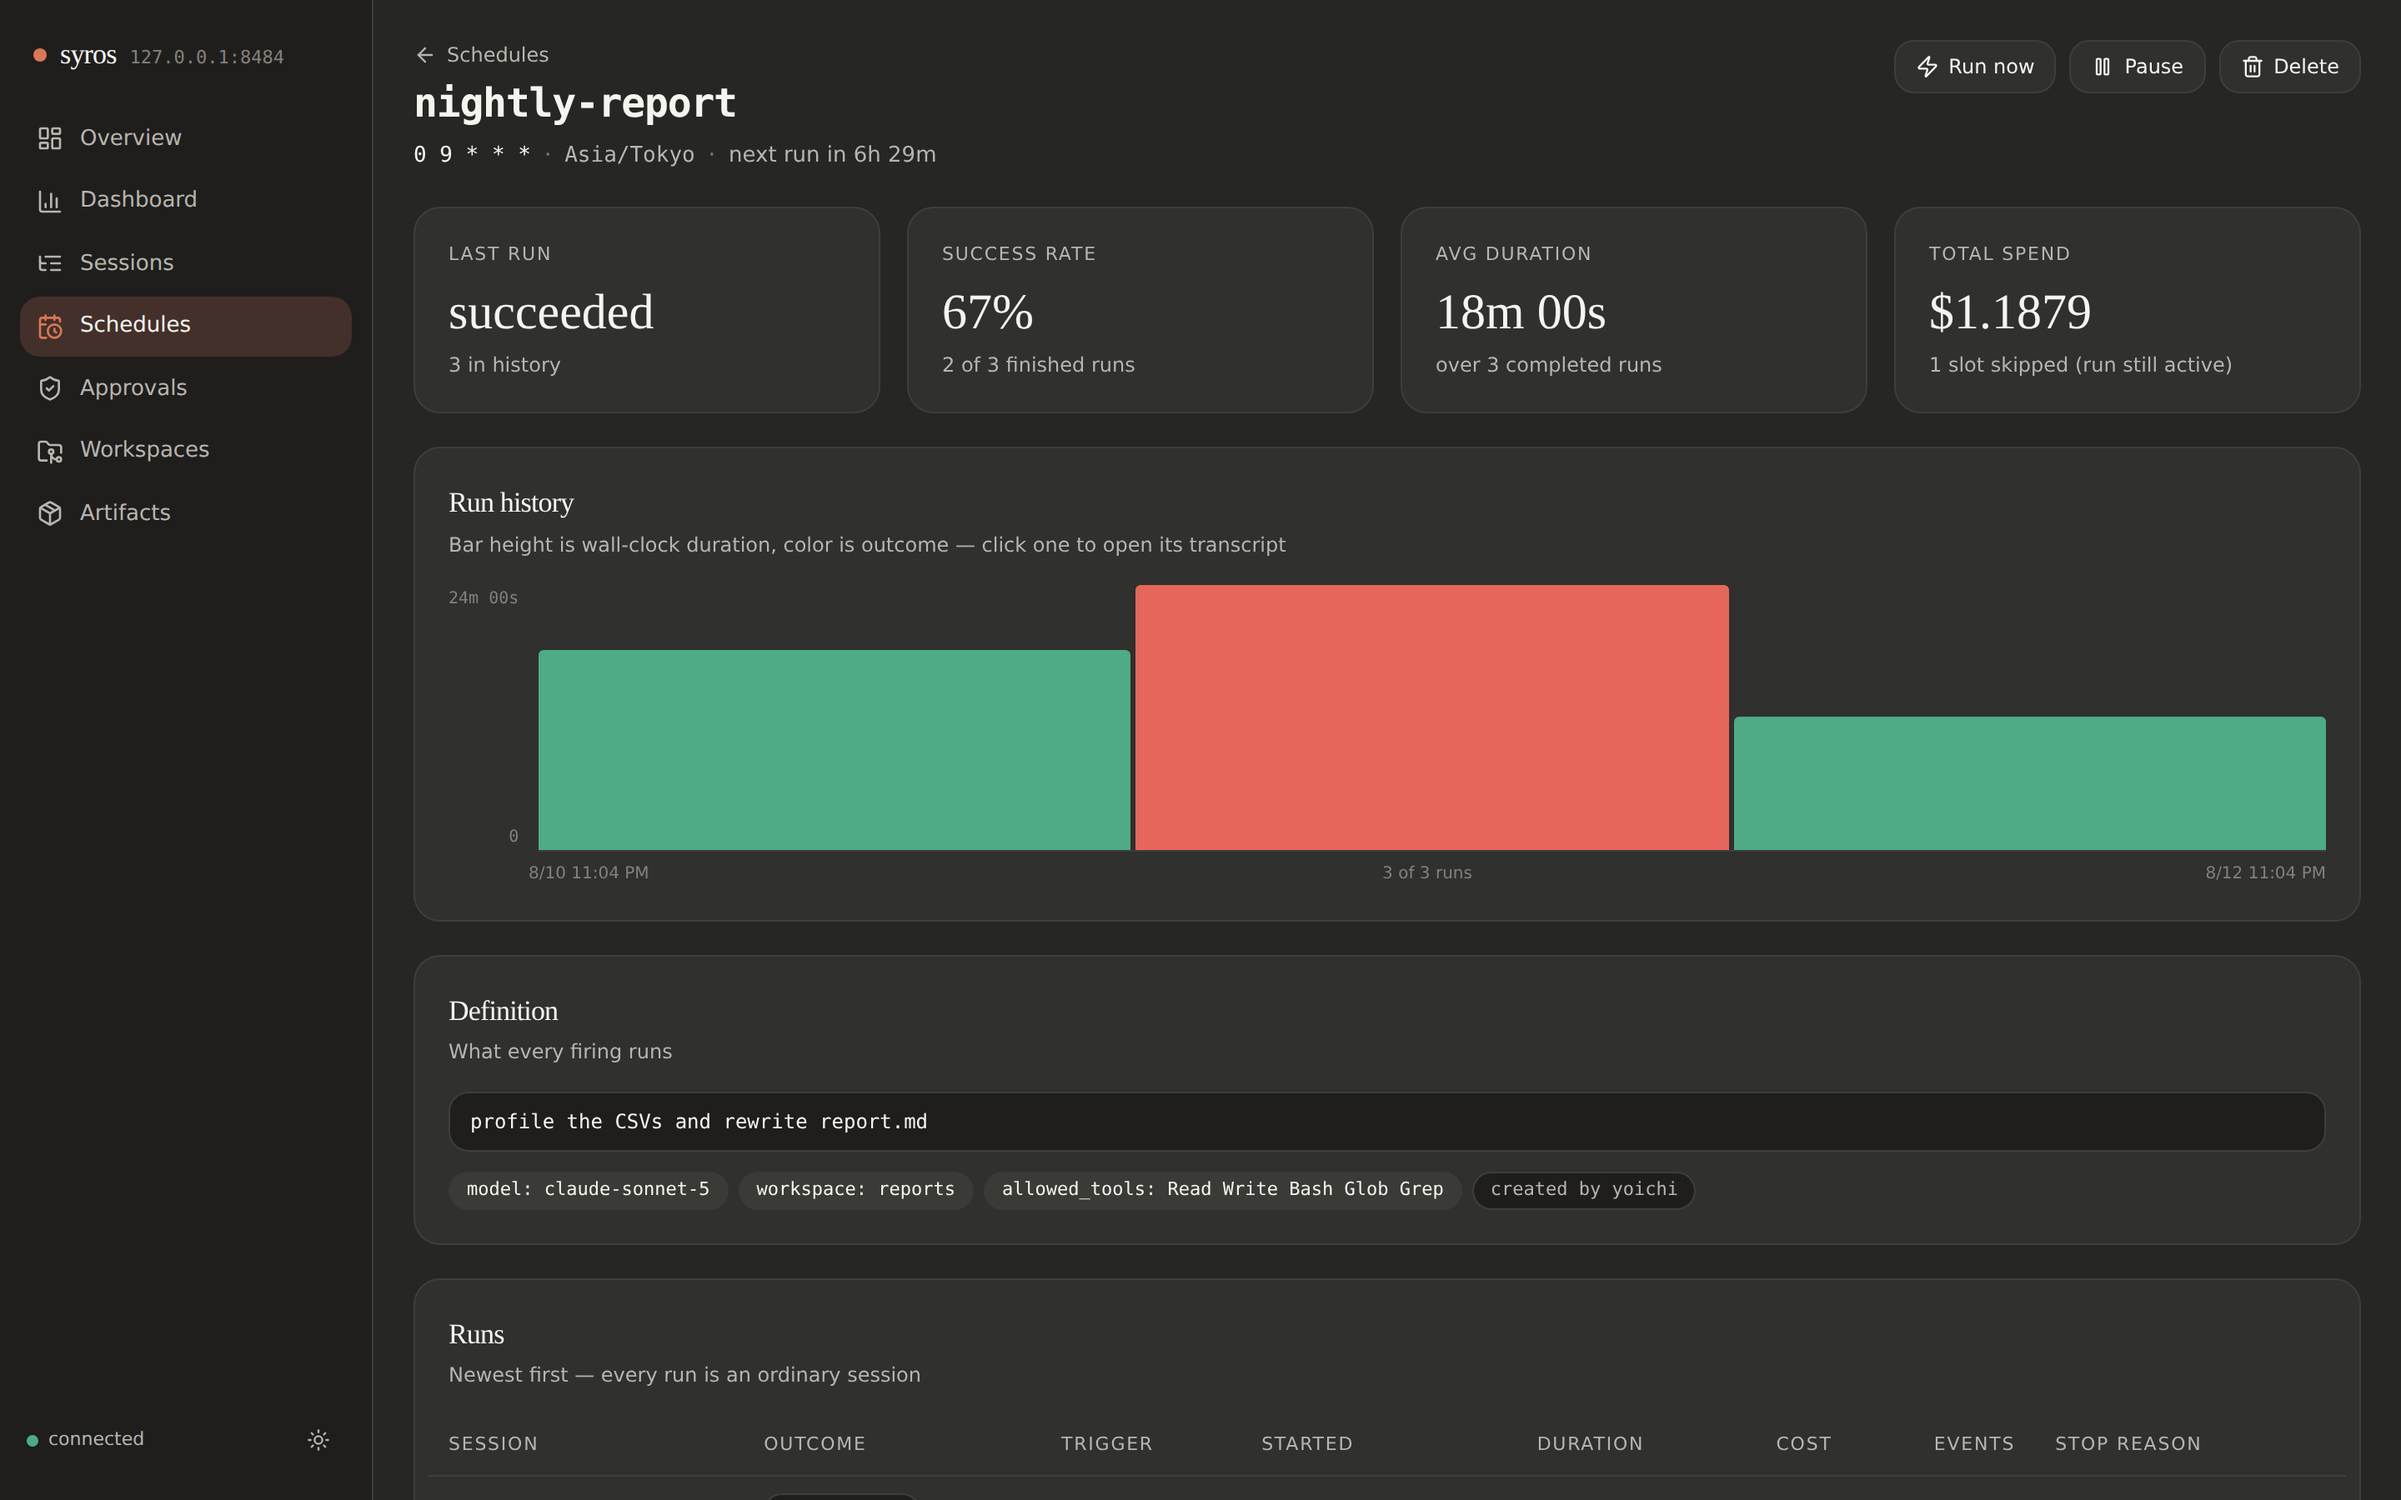
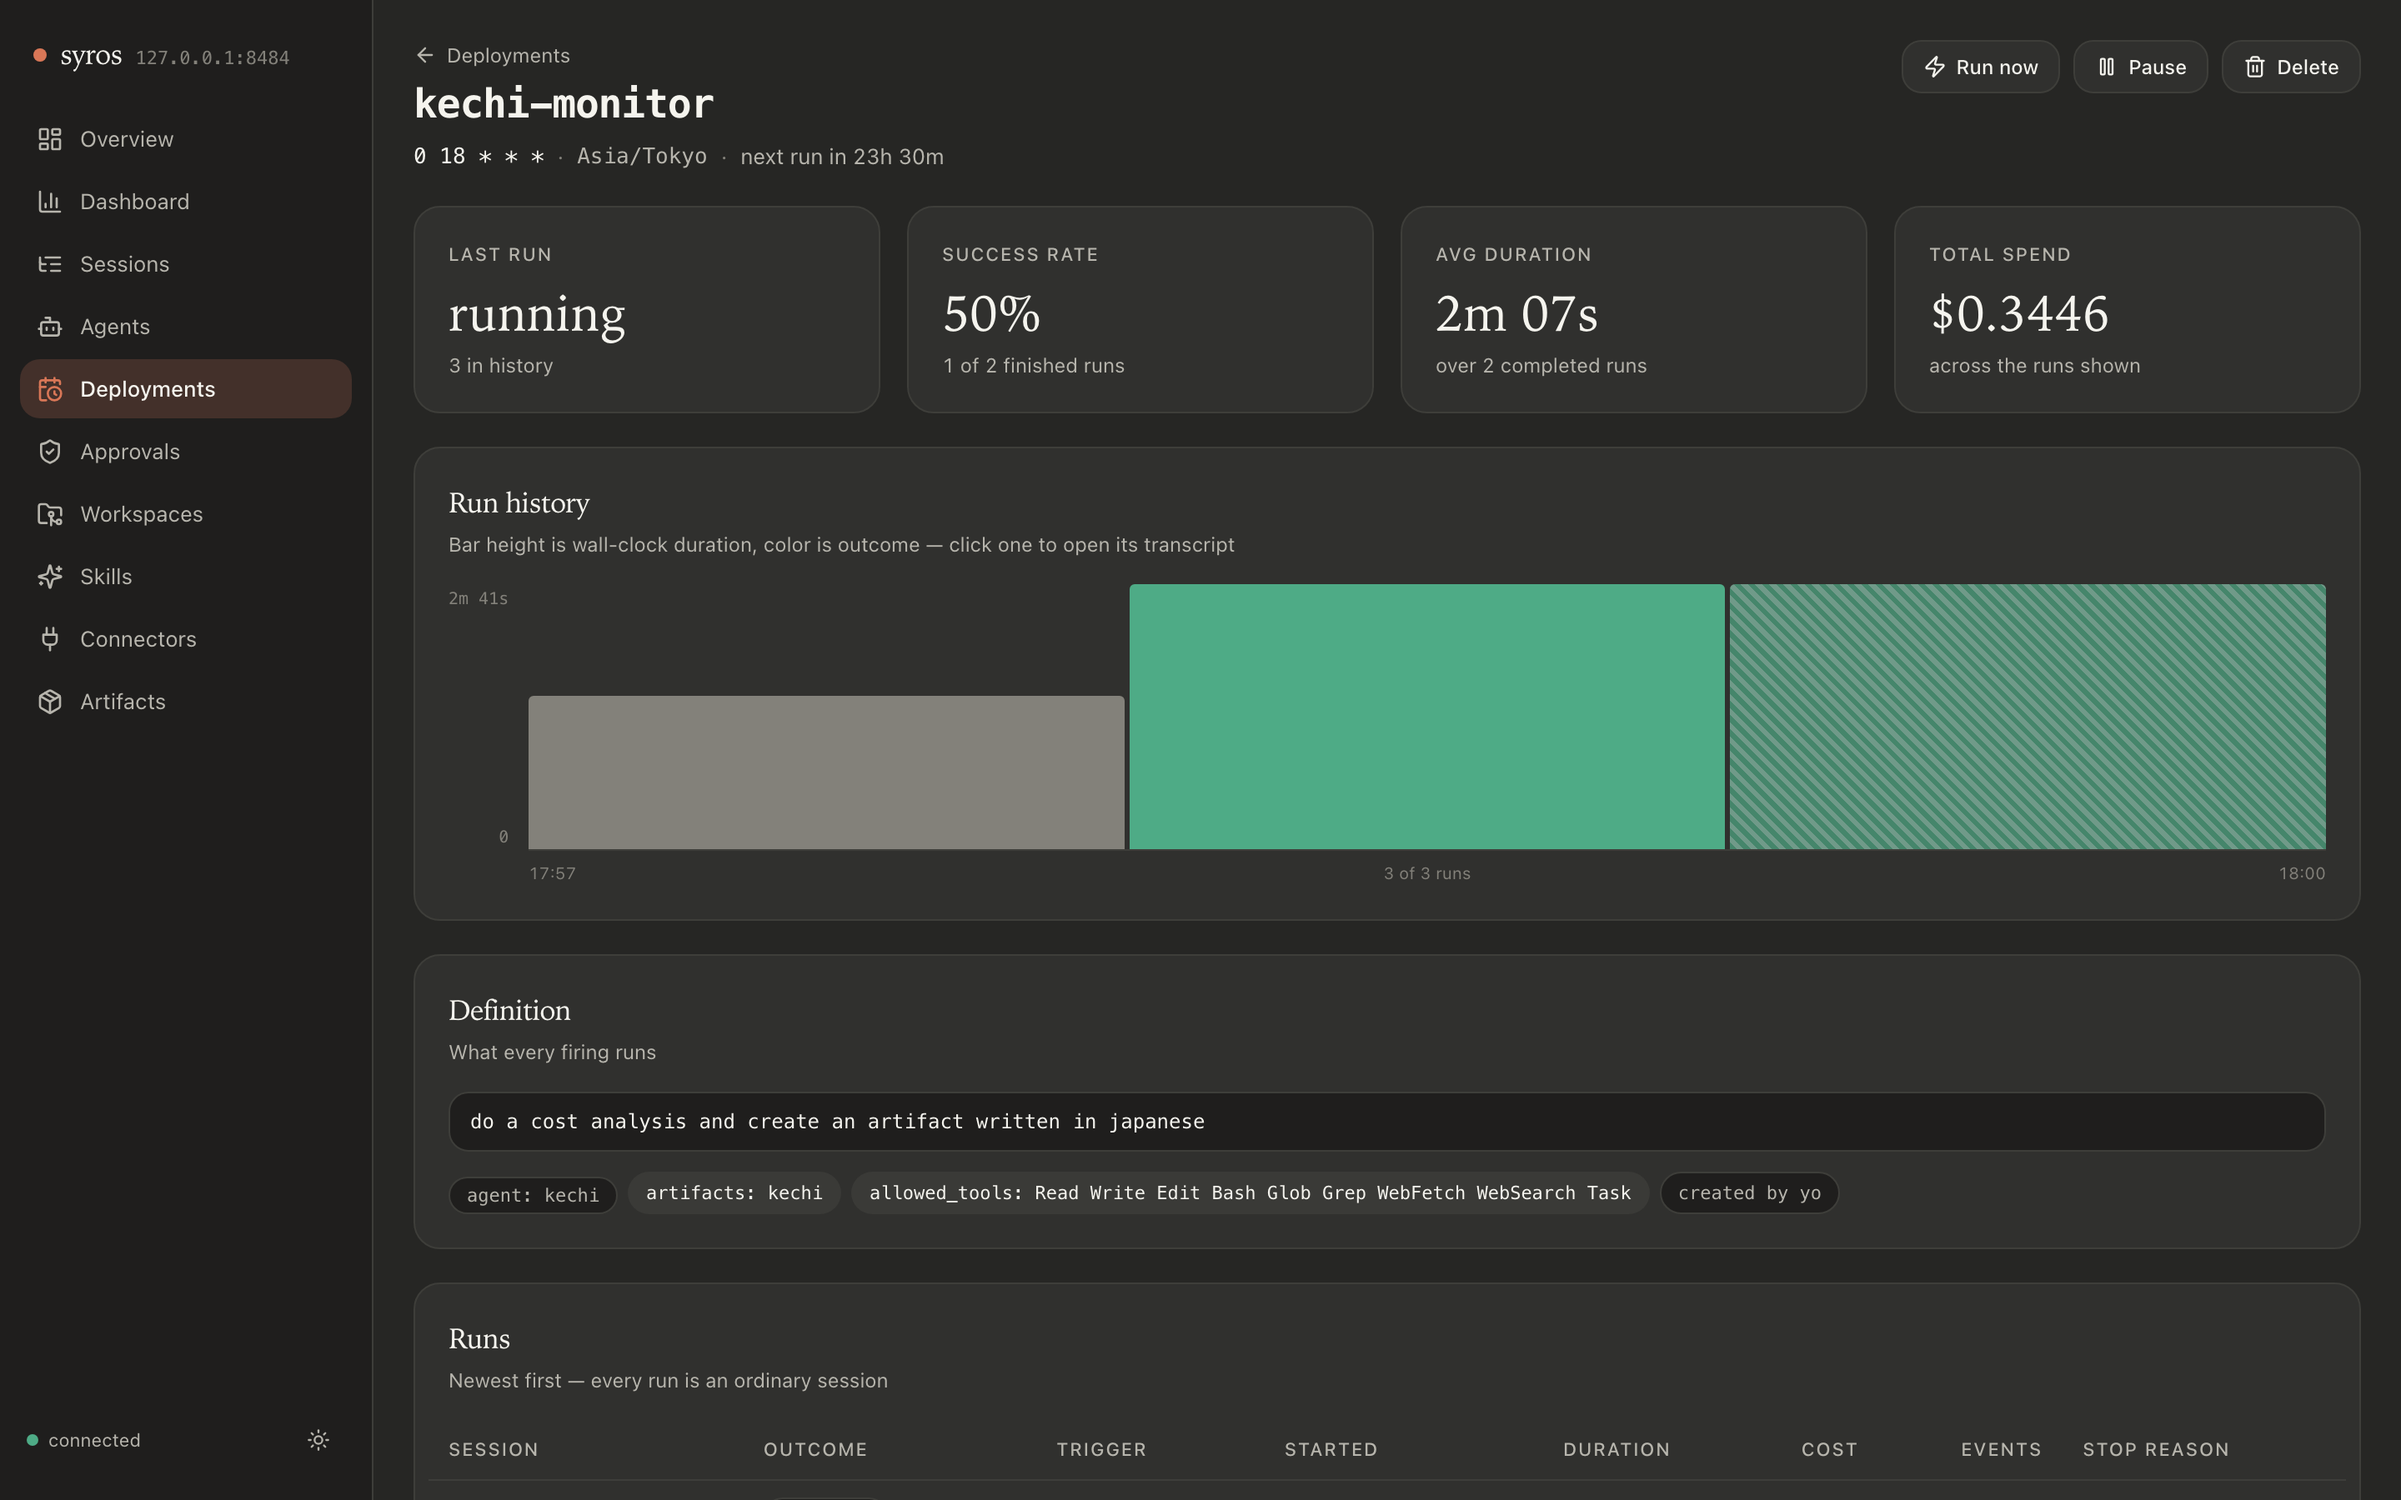
Refresh docs: document skills, update console screenshots
- Add a Skills section to the README: bucket-backed skills/ prefix,
  mounted into every run, syros skills CLI, official-repo sync
- Fix stale `syros schedules create` -> `syros deployments create`
- Update console/README.md page list (agents, deployments, connectors,
  workspaces, skills, new-session form)
- Regenerate all three console screenshots against the current UI
  (new sidebar with Agents/Deployments/Skills/Connectors)

diff --git a/README.md b/README.md
@@ -227,6 +227,29 @@ require a workspace admin to approve the app the OAuth flow registers. Rolling o
 the new image before creating connector-bearing sessions — older runner images reject the
 new option field.
 
+## Skills
+
+Sessions can carry [Agent Skills](https://code.claude.com/docs/en/skills) — a skill is a
+directory (`SKILL.md` plus resources) under `skills/{name}/` in the same bucket the
+sessions use. The runner restores the whole prefix into the sandbox HOME's
+`.claude/skills/` at run start, so `claude_agent_sdk` discovers every skill in every
+session — no per-session opt-in, and nothing new to deploy. The prefix is the single
+source of truth: checkpoints never write skills back, so a skill deleted from the console
+stays deleted.
+
+```
+syros skills                         # list skills in the bucket
+syros skills files pdf               # list one skill's files
+syros skills cat pdf SKILL.md        # print one skill file
+syros skills sync                    # seed skills/ from the official anthropics/skills repo
+```
+
+`sync` pulls the official [anthropics/skills](https://github.com/anthropics/skills)
+tarball and copies each skill into the bucket — nothing is vendored, and the copies are
+editable snapshots: re-syncing overwrites official files but never touches skills (or
+files) the tarball doesn't carry. The console has a Skills view with the same surface as
+workspaces — browse a skill, edit a file in place, upload, or delete the skill.
+
 ## Analysis
 
 Firestore holds all the state but is a poor analysis surface. `syros export` snapshots the
@@ -276,7 +299,7 @@ AgentOptions(
 which is what makes an unattended audit a schedule rather than a person:
 
 ```
-syros schedules create nightly-audit --cron "0 9 * * *" --tz Asia/Tokyo \
+syros deployments create nightly-audit --cron "0 9 * * *" --tz Asia/Tokyo \
   --prompt "Query the syros BigQuery tables: yesterday's spend by model, any
             denied or killed tool calls, approvals that timed out. Write
             findings.md to the audit artifact space." \

diff --git a/console/README.md b/console/README.md
@@ -4,9 +4,14 @@ Next.js 15 (static export) + React 19 + TypeScript + Tailwind 4, with
 shadcn-style components, next-themes (light/dark), and recharts.
 
 Pages: `/` (overview: stat tiles, cost chart, recent sessions), `/dashboard`
-(analytics: spend and activity per day, state mix, cost by model), `/sessions`,
-`/session?sid=...` (transcript, composer, approvals, artifacts), `/approvals`
-(global pending queue). Endpoints live in `src/syros/console/api.py`.
+(analytics: spend and activity per day, state mix, cost by model), `/sessions`
+(list + new-session form), `/session?sid=...` (transcript, composer, approvals,
+artifacts), `/approvals` (global pending queue), `/agents` + `/agent` (stored
+personas), `/deployments` + `/deployment` (cron runs, outcome/duration bars),
+`/connectors` (catalog + credential status), `/workspaces` + `/workspace`
+(shared working directories, file editing), `/artifacts` (shared spaces),
+`/skills` + `/skill` (bucket-backed Agent Skills, file editing). Endpoints
+live in `src/syros/console/api.py`.
 
 The session page includes a Claude-style artifact panel: files the agent
 writes are reconstructed client-side by replaying Write/Edit tool calls from
